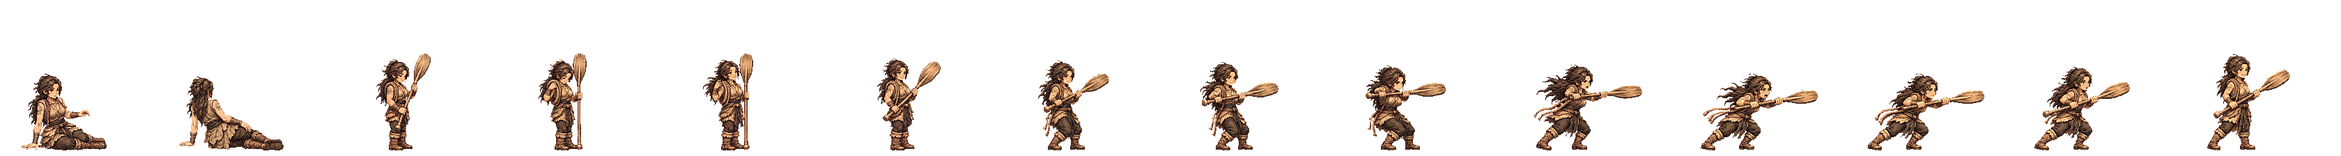
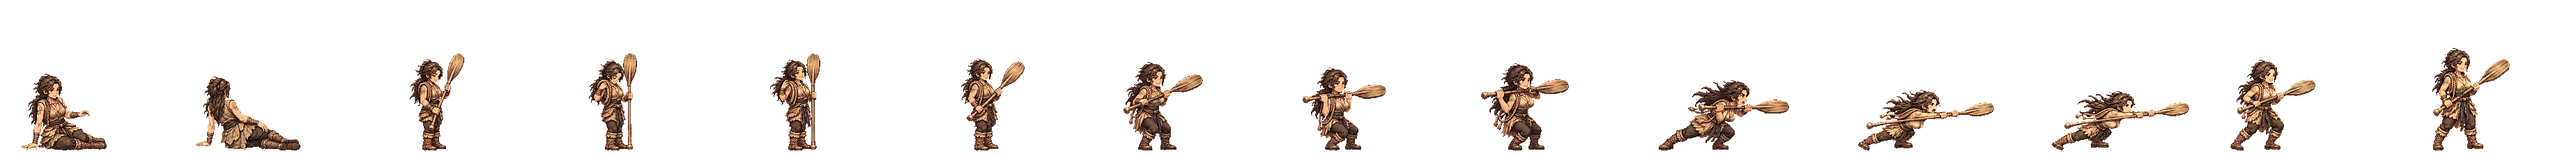
탐라 너울 노 찌르기를 새 인형으로 다시 (걷기는 얼굴 묶기 그대로)
T13 · T14 다시를 받음. 첫 b 판은 칸3·4 가 노를 앞으로 내민 채라 다시 그린 판을 쓴다(칸1·2 는 첫 판 그대로 · 칸3 거둠 · 칸4 서기 자세). 서기→첫 칸 윗몸 어긋남 25px(옛 띠 40). 띠 검사 합격.

Claude-Session: https://claude.ai/code/session_01TRiuN7s6aDfSnaHxrkctmU

diff --git a/tools/sprite-kit/anim-harness.py b/tools/sprite-kit/anim-harness.py
@@ -58,7 +58,7 @@ HEROES = {
     'whaleq': dict(strip='gen-base-w-23-usisan-whale-queen', atk='thrust', atk8=True, act=True, legacy=(('a', 2), ('a', 3), ('b', 3), ('b', 4))),   # 우시산 고래 여왕(미늘 작살 · 우람한 뼈대)
     'tomboy': dict(strip='gen-base-w-26-iseo-tomboy-general', atk='thrust', atk8=True, act=True, legacy=(('a', 2), ('a', 3), ('b', 3), ('b', 4))),   # 이서 말괄량이 장군(창 · 우람한 뼈대)
     'beol': dict(strip='gen-base-w-72-eumjeup-beol', atk='slash', atk8=True, act=True, legacy=(('a', 1), ('a', 3), ('b', 2), ('b', 4))),   # 음즙 벌(한 손 칼 · 우람한 뼈대) · 좁은 칸은 아라처럼 덜 뻗은 칸
-    'tneoul': dict(strip='gen-tneoul', atk='thrust', atk8=True, act=True, legacy=(('a', 2), ('a', 3), ('b', 3), ('b', 4)), lock='face'),   # 탐라 너울(두 손 나무 노 · 가슴 L) · 머리 상자 묶기는 b-2 에서 얼굴 자리를 잘못 잡아 머리가 둘이 됐다(11-24) → 얼굴 안쪽만
+    'tneoul': dict(strip='gen-tneoul', atk='thrust', src='thrust2', actw=264, atk8=True, act=True, legacy=(('a', 2), ('a', 3), ('b', 3), ('b', 4)), lock='face'),   # 탐라 너울(두 손 나무 노 · 가슴 L) · 머리 상자 묶기는 b-2 에서 얼굴 자리를 잘못 잡아 머리가 둘이 됐다(11-24) → 얼굴 안쪽만
     'baetsa': dict(strip='gen-base-w-76-gampyeong-baetsagong', atk='thrust', atk8=True, act=True, legacy=(('a', 2), ('a', 3), ('b', 3), ('b', 4))),   # 감평 뱃사공(두 손 나무 노 · 가슴 XL)
     'odi': dict(strip='gen-odi', atk='thrust', src='thrust2', actw=264, atk8=True, act=True, legacy=(('a', 2), ('a', 3), ('b', 3), ('b', 4))),   # 조문 오디(창 · 가슴 XL)
     'deulme': dict(strip='gen-base-w-34-chopal-deulme', atk='thrust', src='thrust2', actw=264, atk8=True, act=True, legacy=(('a', 2), ('a', 3), ('b', 3), ('b', 4))),   # 초팔 들메(창 · 우람한 뼈대 · 가슴 L)
